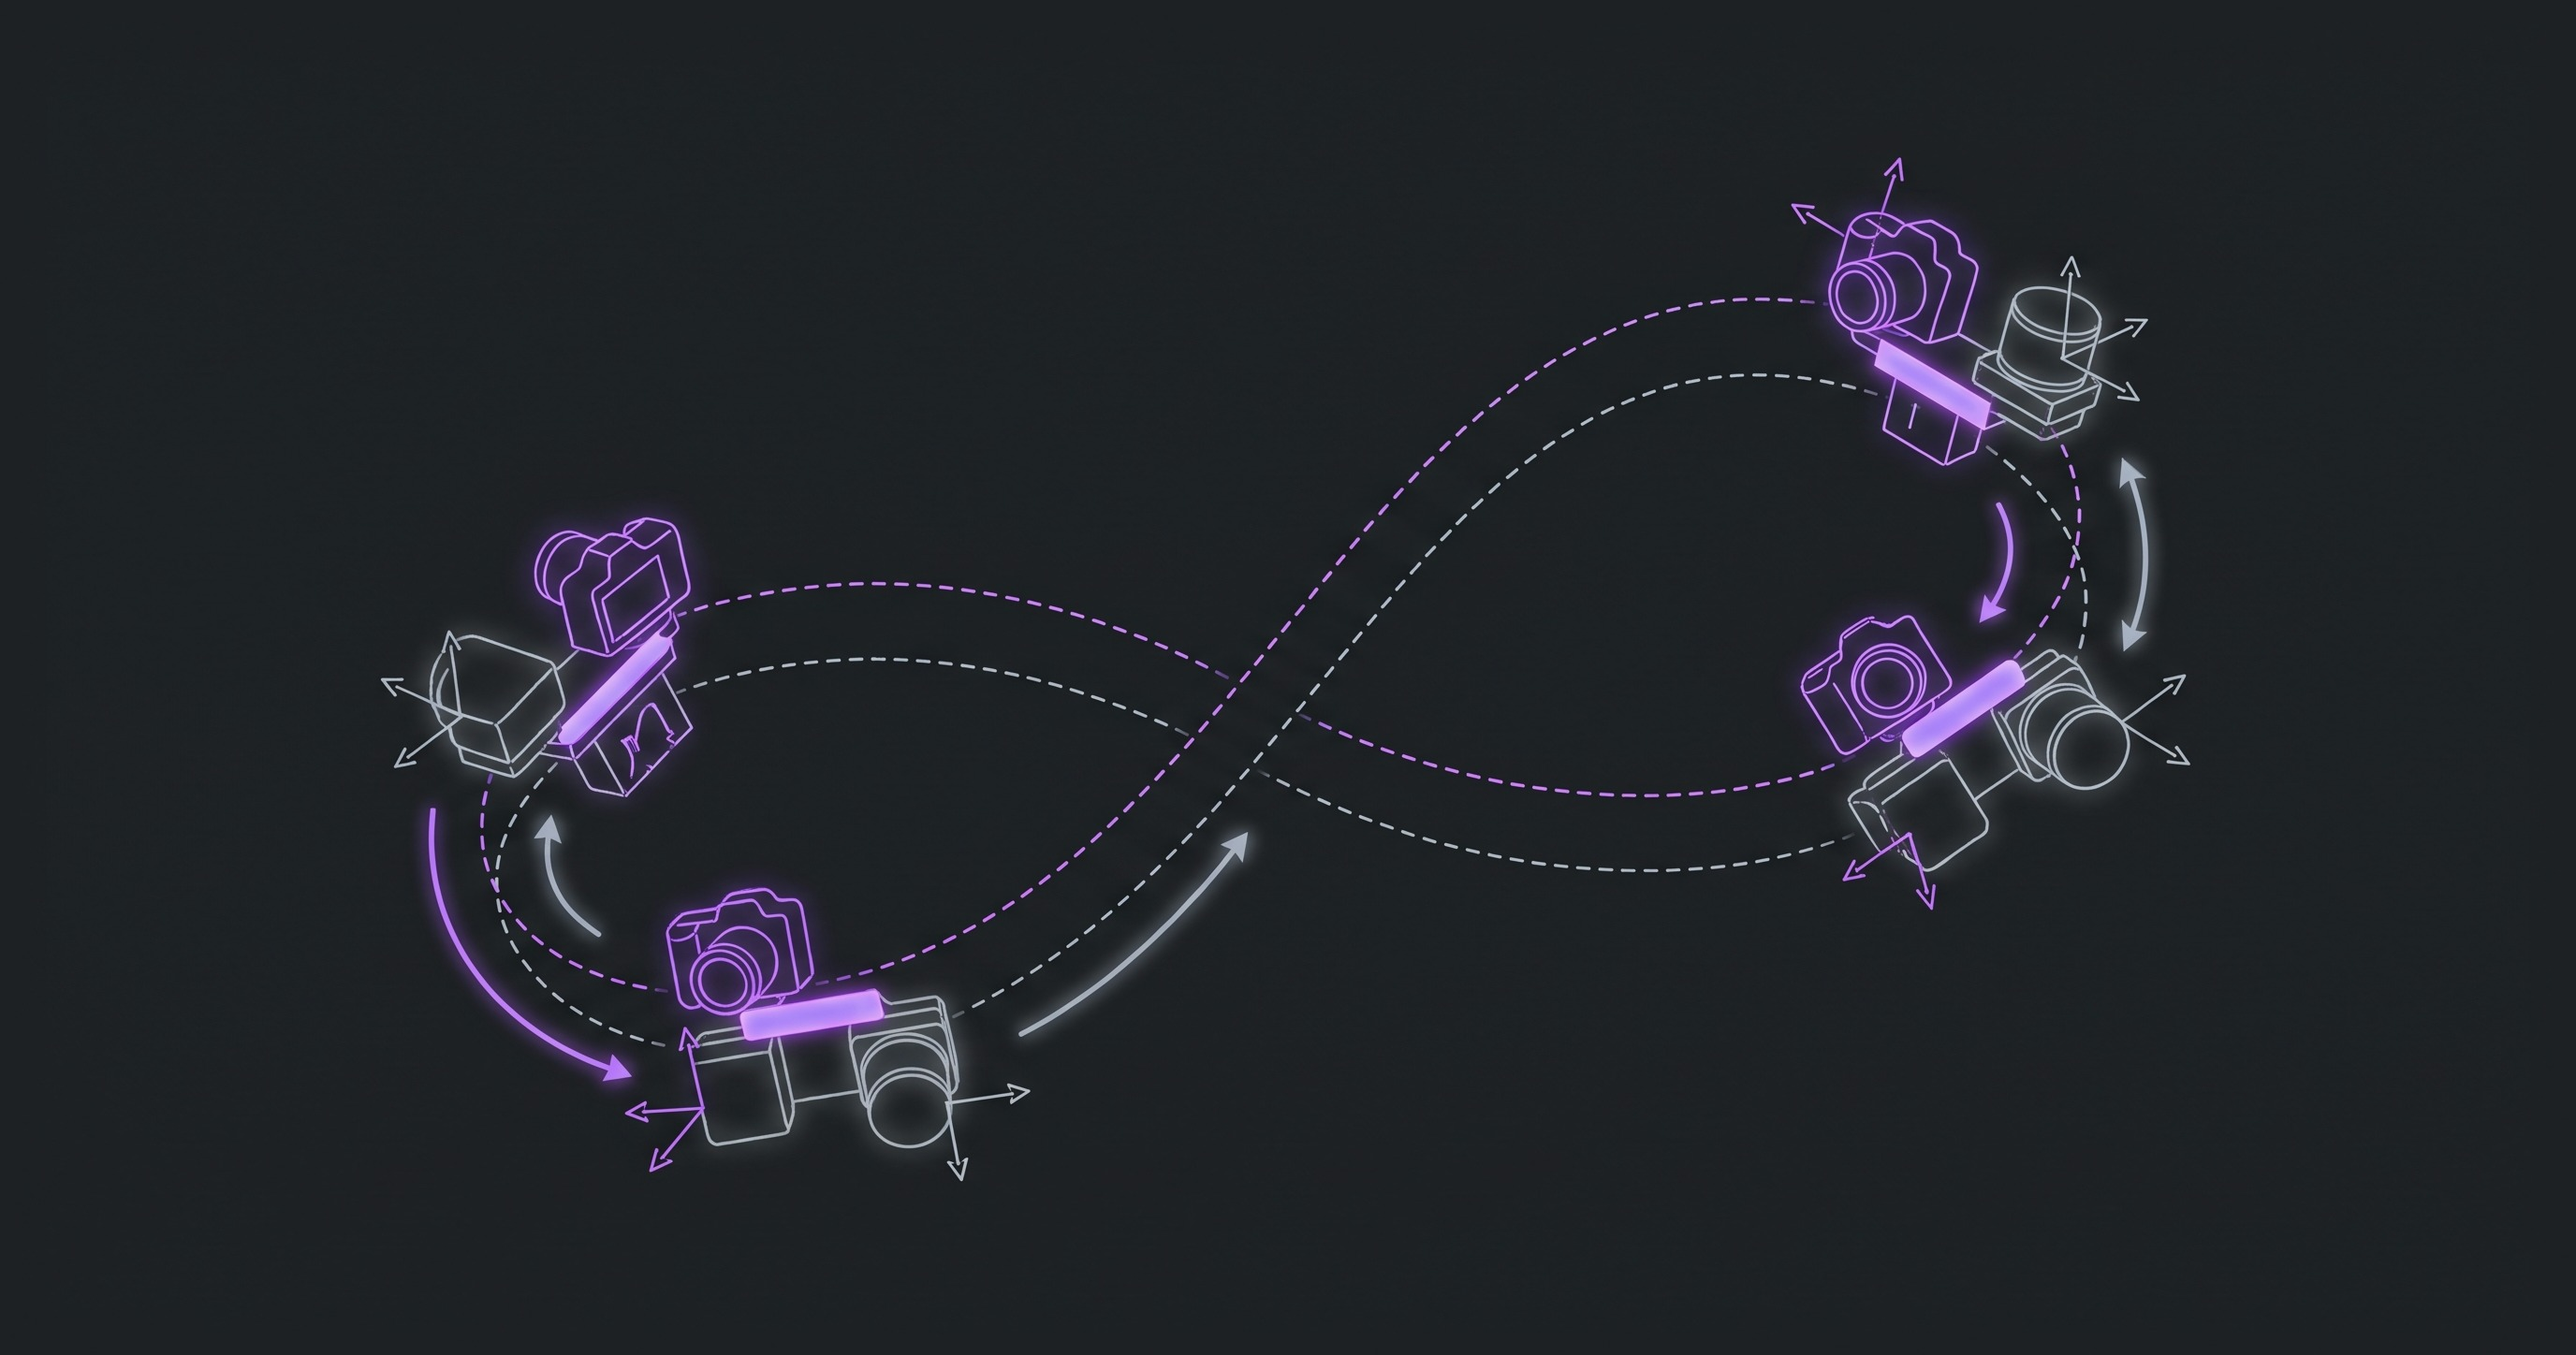
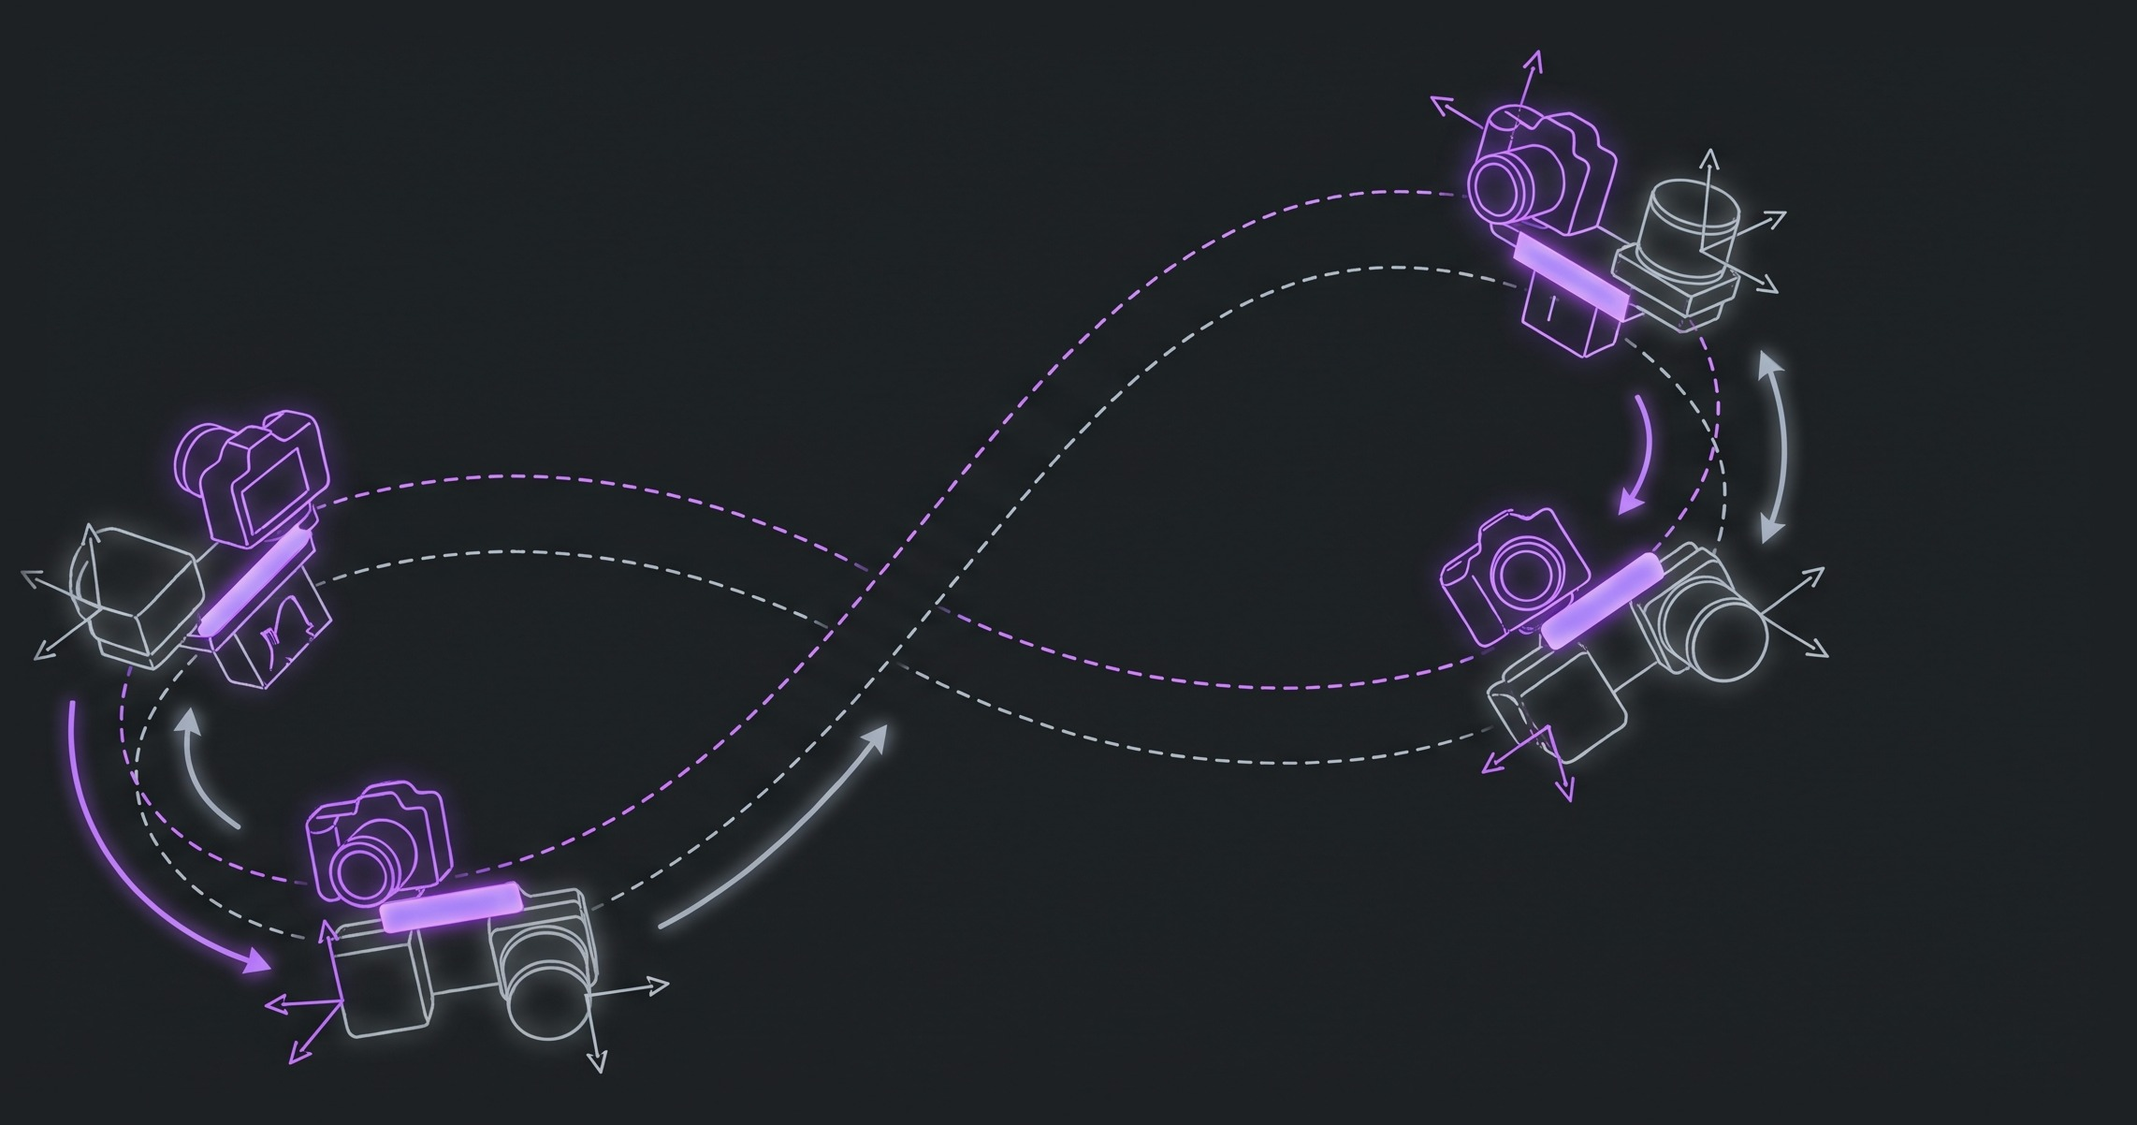
Slide 22: tighter crops

diff --git a/scripts/p22_calib_cards.py b/scripts/p22_calib_cards.py
@@ -2,7 +2,7 @@
 
 Usage: p22_calib_cards.py <src_dir> <out_dir>
 Reads ill_target.png, ill_targetless.png, ill_motion.png (Gemini renders without text, prompts in versions/),
-crops each to ASPECT around its content, shifts the background to the card fill and fades the borders into it.
+crops each to ASPECT around its content box, shifts the background to the card fill and fades the borders into it.
 """
 import os
 import sys
@@ -13,14 +13,19 @@ from PIL import Image
 src, out = sys.argv[1], sys.argv[2]
 CARD = np.array([30, 33, 36], float)  # card fill, #1e2124
 ASPECT = 1.9
-CENTER_Y = {"target": 0.50, "targetless": 0.50, "motion": 0.48}  # vertical centre of the content, fraction of height
+# content box (x0, y0, x1, y1) as fractions of the render; the crop is the smallest ASPECT box around it
+CONTENT = {"target": (0.06, 0.08, 0.94, 0.91), "targetless": (0.15, 0.07, 0.85, 0.89),
+           "motion": (0.14, 0.11, 0.97, 0.84)}
 
-for name, cy in CENTER_Y.items():
+for name, (fx0, fy0, fx1, fy1) in CONTENT.items():
     im = Image.open(os.path.join(src, f"ill_{name}.png")).convert("RGB")
-    W, H = im.size
-    h = round(W / ASPECT)
-    y0 = int(np.clip(cy * H - h / 2, 0, H - h))
-    a = np.asarray(im.crop((0, y0, W, y0 + h))).astype(float)
+    W0, H0 = im.size
+    cw, ch = (fx1 - fx0) * W0, (fy1 - fy0) * H0
+    cw, ch = max(cw, ch * ASPECT), max(ch, cw / ASPECT)
+    cx, cy = (fx0 + fx1) / 2 * W0, (fy0 + fy1) / 2 * H0
+    x0 = int(np.clip(cx - cw / 2, 0, W0 - cw)); y0 = int(np.clip(cy - ch / 2, 0, H0 - ch))
+    a = np.asarray(im.crop((x0, y0, x0 + int(cw), y0 + int(ch)))).astype(float)
+    h, W = a.shape[:2]
     corners = np.concatenate([a[:20, :20], a[:20, -20:], a[-20:, :20], a[-20:, -20:]]).reshape(-1, 3)
     a += CARD - np.median(corners, axis=0)
     r = 50
